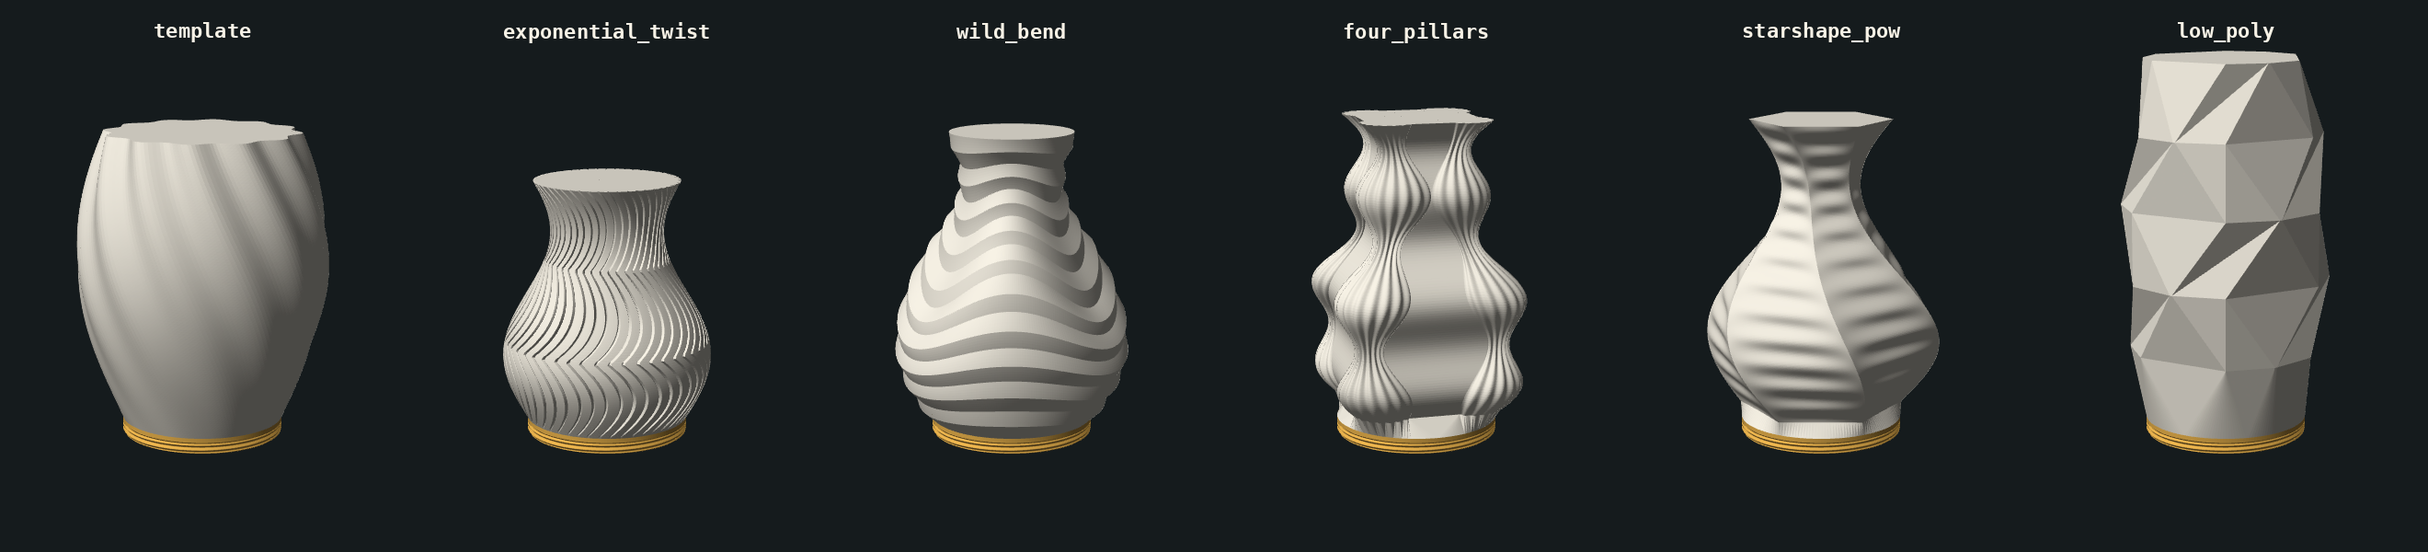
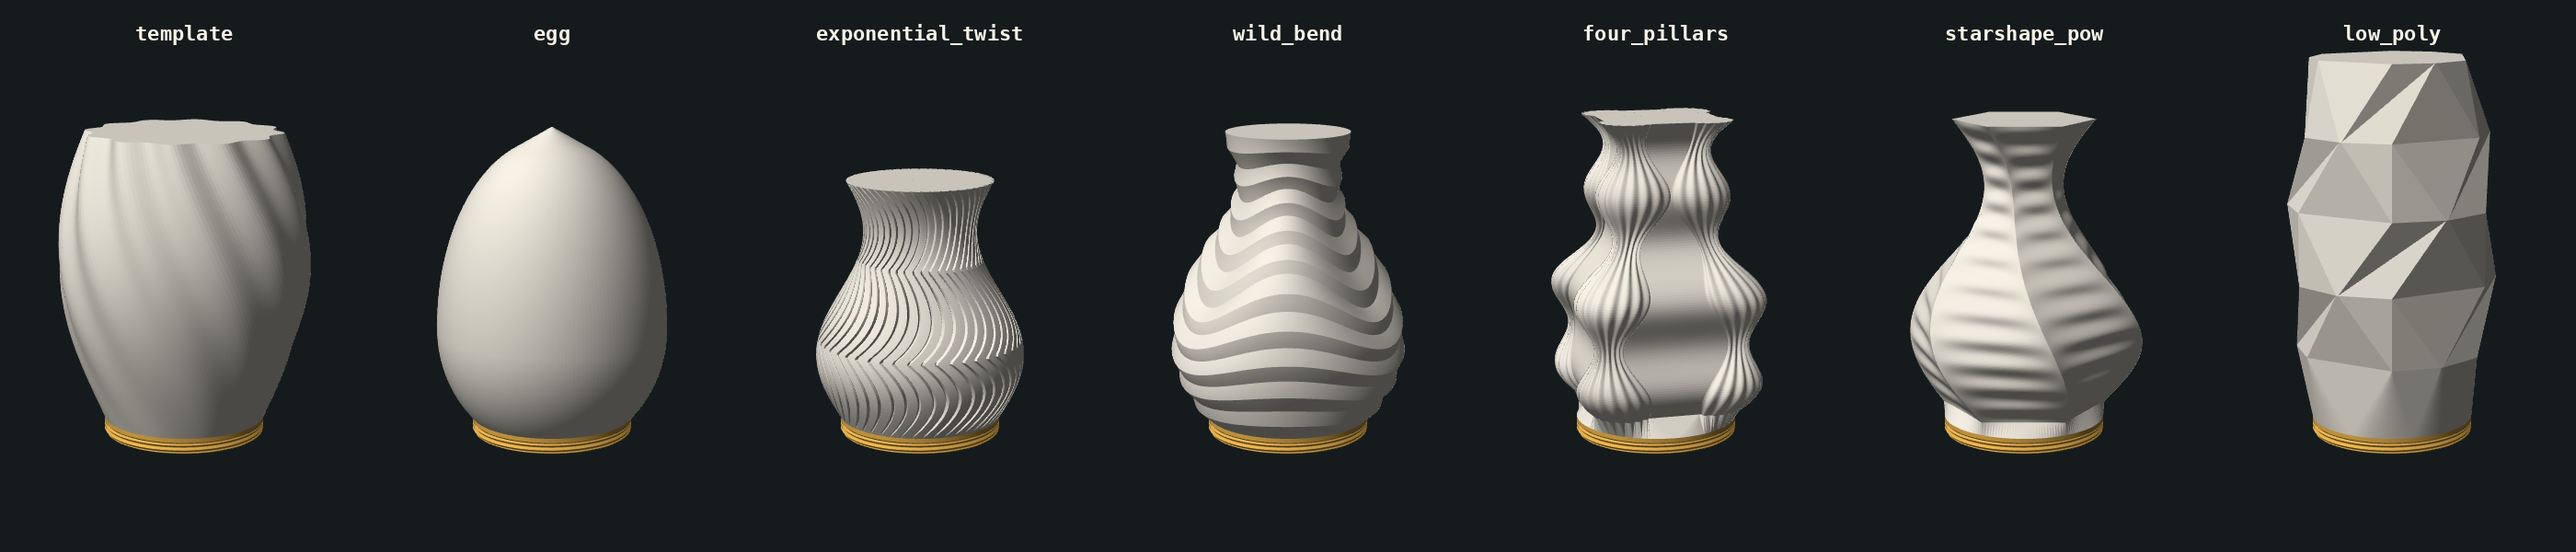
Pucklight vase: example egg, a preset that closes on top
Half an ellipse below its widest ring, a taller half above, round up to where
the wall leans n_overhang, 60 degrees, then a straight cone to a top layer of
0.4 mm radius. A commented line shows where a pattern goes.

diff --git a/projects/pucklight_vase/examples.js b/projects/pucklight_vase/examples.js
@@ -1,7 +1,8 @@
 // Copyright (C) Jonas Immanuel Frey - Licensed under GPL
-// The scripts the editor offers. template explains what a script is; the others are
-// vases of stlsculpter (https://github.com/jonasfrey/stlsculpter), with their formulas
-// and names, put on the thread. A new example: add an entry here.
+// The scripts the editor offers. template explains what a script is, and egg is a
+// preset that closes on top; the others are vases of stlsculpter
+// (https://github.com/jonasfrey/stlsculpter), with their formulas and names, put on
+// the thread. A new example: add an entry here.
 
 const examples = {
     template: `// The lamp's shape above the thread, as a solid for a slicer's
@@ -36,6 +37,61 @@ function f_o_p(n_it_layer_nor, n_it_corner_nor) {
         n_x: Math.sin(n_it_corner_nor * n_tau + n_rad_offset) * n_amp,
         n_y: Math.cos(n_it_corner_nor * n_tau + n_rad_offset) * n_amp,
         n_z: o_thread.n_z + n_it_layer_nor * n_height,
+    };
+}
+
+return {n_its_layer, n_its_corner, f_o_p};
+`,
+    egg: `// An egg that closes on top: a preset to put a pattern on.
+//
+// Below its widest ring it is half an ellipse, n_height_bottom high,
+// which starts on the thread's ring. Above, half an ellipse
+// n_height_top high. A single wall cannot lie flat, so the egg is
+// round up to where its wall leans n_overhang, and from there a
+// straight cone closes it. Lower is safer and more pointed.
+
+const n_tau = Math.PI * 2;
+const n_its_layer = 160;
+const n_its_corner = 180;
+const n_radius = 48;
+const n_height_bottom = 52;
+const n_height_top = 80;
+// From vertical, in degrees.
+const n_overhang = 60;
+// The top layer. Not 0: its faces would have no area.
+const n_radius_tip = 0.4;
+
+// The widest ring, the ring where the cone starts, and the top.
+const n_z_widest = o_thread.n_z + n_height_bottom
+    * Math.sqrt(1 - Math.pow(o_thread.n_radius / n_radius, 2));
+const n_tan = Math.tan(n_overhang / 360 * n_tau);
+const n_rad_cone = Math.atan(n_height_top * n_tan / n_radius);
+const n_radius_cone = n_radius * Math.cos(n_rad_cone);
+const n_z_cone = n_z_widest + n_height_top * Math.sin(n_rad_cone);
+const n_z_top = n_z_cone + (n_radius_cone - n_radius_tip) / n_tan;
+
+// The egg's radius at the height n_z.
+let f_n_radius = function(n_z) {
+    if (n_z > n_z_cone) {
+        return n_radius_cone - (n_z - n_z_cone) * n_tan;
+    }
+    let n_height = (n_z < n_z_widest) ? n_height_bottom : n_height_top;
+    let n_nor = (n_z - n_z_widest) / n_height;
+    return n_radius * Math.sqrt(1 - n_nor * n_nor);
+}
+
+function f_o_p(n_it_layer_nor, n_it_corner_nor) {
+    let n_z = o_thread.n_z + n_it_layer_nor * (n_z_top - o_thread.n_z);
+    let n_amp = f_n_radius(n_z);
+    // A pattern goes here, for example ribs that fade out at both ends:
+    // n_amp += Math.sin(n_it_corner_nor * n_tau * 12)
+    //     * Math.sin(n_it_layer_nor * n_tau / 2);
+    let n_rad_offset = 0;
+
+    return {
+        n_x: Math.sin(n_it_corner_nor * n_tau + n_rad_offset) * n_amp,
+        n_y: Math.cos(n_it_corner_nor * n_tau + n_rad_offset) * n_amp,
+        n_z: n_z,
     };
 }
 

diff --git a/projects/pucklight_vase/readme.md b/projects/pucklight_vase/readme.md
@@ -47,6 +47,7 @@ The editor holds the body of a function: it gets `o_thread` and returns `{n_its_
 - Corners may run either way around the axis and start anywhere; all layers the same way.
 - At most 2 000 000 points.
 - The last layer is closed with a face. Vase mode leaves it open.
+- A shape that closes on top ends in a cone to a small last layer, as `egg`: a single wall cannot lie flat.
 - A mistake shows in the status and, with its line, in the editor; the last good vase stays.
 - The app keeps no scripts: copy yours out of the editor. A new example: add an entry to `examples.js`.
 
@@ -61,11 +62,12 @@ Gold in the view. `f_o_p()` is not called for it.
 
 ## Examples
 
-`template` explains the script. The others are stlsculpter's, with their formulas and names: the radius starts on the thread's 33.5 instead of `n_radius_base`, or on a cone, and z on `o_thread.n_z`.
+`template` explains the script. `egg` is a preset to put a pattern on. The others are stlsculpter's, with their formulas and names: the radius starts on the thread's 33.5 instead of `n_radius_base`, or on a cone, and z on `o_thread.n_z`.
 
 | Example | stlsculpter's | Layers × corners | Triangles | High × wide | Steepest wall |
 |---|---|---|---|---|---|
 | `template` | `template.js`, changed | 120 × 180 | 61200 | 126.6 × 105.2 | 28° at z = 126 |
+| `egg` | none | 160 × 180 | 75600 | 128.3 × 96.0 | 60° at z = 124: its cone |
 | `exponential_twist` | `vase_exponential_twist.js` | 100 × 400 | 98000 | 106.6 × 87.0 | 51° at z = 39 |
 | `wild_bend` | `vase_wild_bend.js` | 120 × 300 | 90000 | 126.6 × 97.5 | 49° at z = 7 |
 | `four_pillars` | `vase_four_pillars.js` | 120 × 500 | 138000 | 132.6 × 98.6 | 52° at z = 73 |
@@ -85,6 +87,7 @@ Vase mode, as V3's `vase_sphere`: see `../pucklight_sphere/readme.md`, Vase mode
 | Brim | outer, 5 mm | the first layer is one line |
 
 - Steepest wall, in the status: how far a wall of the script leans in or out, from vertical. 45° is safe.
+- `egg` closes at 60°, its `n_overhang`, as V3's `vase_sphere` at its `vase_overhang`.
 - Beyond 45°, from V3's table, overlap per layer of a 0.6 mm line at 0.2 mm layers: 52% at 55°, 42% at 60°, 29% at 65°, 8% at 70°.
 - Screw it in gently: the thread is a single line.
 - Hypothesis, not tried: 2 walls, 0 top and bottom layers and 0% infill instead of vase mode give a sturdier thread.
@@ -114,7 +117,7 @@ Vase mode, as V3's `vase_sphere`: see `../pucklight_sphere/readme.md`, Vase mode
 
 ## Not tested yet
 
-- Not sliced, not printed. Most open: the thread as a single wall in V3's cup, and the examples' walls of up to 52°.
+- Not sliced, not printed. Most open: the thread as a single wall in V3's cup, the examples' walls of up to 52°, and the egg's tip.
 - Only on software WebGL in Chrome: no real GPU. Firefox: only the mistake's line.
 
 ## Not included
